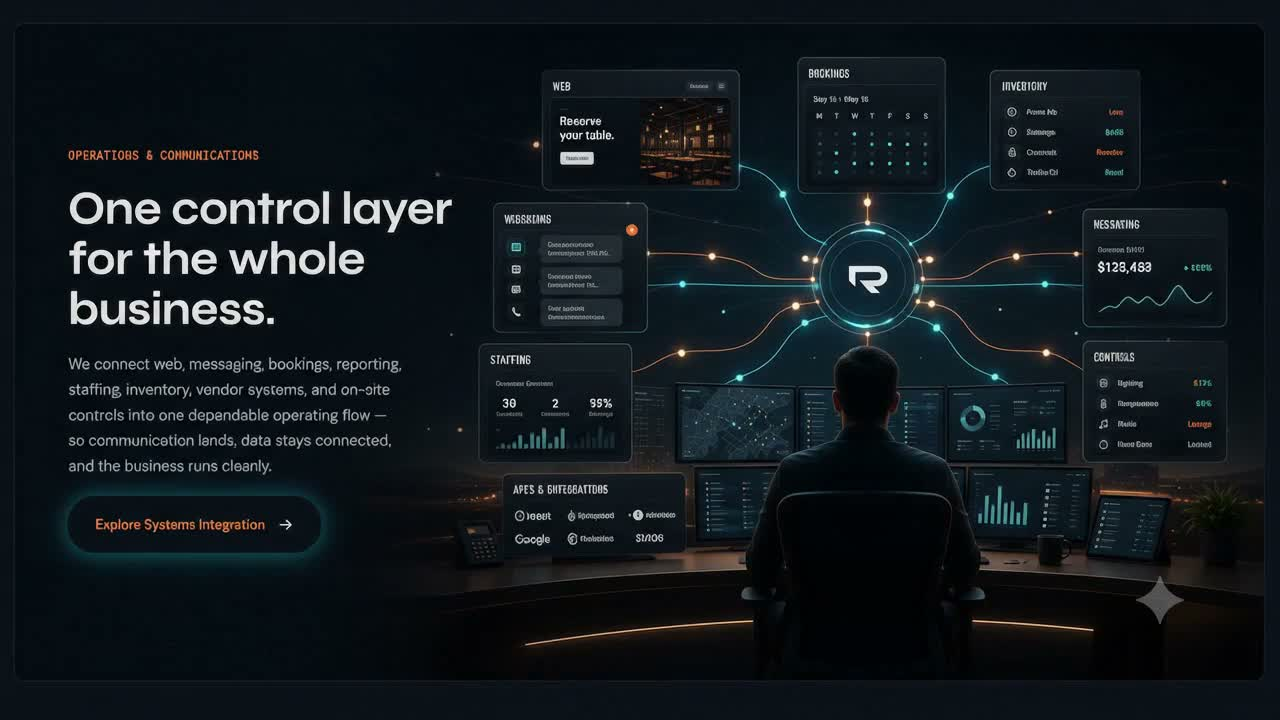
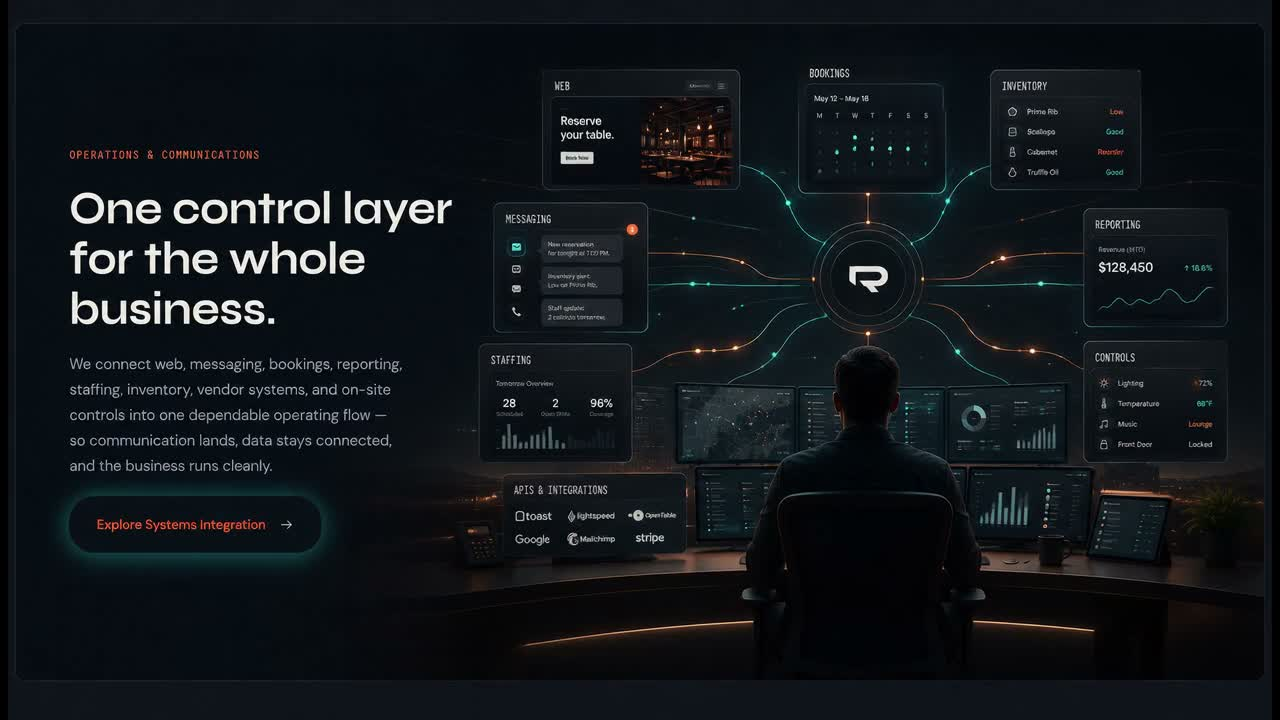
Boomerang systems control video with smooth end-caps
Replace the systems still/one-shot clip with a forward+reverse boomerang of the new source and a continuous controller: slow near turnarounds, no pause holds, whole card still links to System Integrations.

diff --git a/assets/js/systems-control-boomerang.js b/assets/js/systems-control-boomerang.js
@@ -1,0 +1,156 @@
+/**
+ * Systems control-layer boomerang
+ * Same family as integrations hero / IHS underconstruction motion:
+ * pre-baked forward+reverse video, continuous play, slow end-caps,
+ * NO pause holds — never stops at either side.
+ */
+(function () {
+  var v = document.querySelector(".systems-control-video");
+  if (!v) return;
+
+  var CRUISE = 0.72;
+  var FLOOR = 0.2; // never fully stop
+  var CAP = 0.9; // seconds of soft end-cap on each side of turnarounds
+  var D = 0;
+  var MID = 0;
+  var ready = false;
+  var lastT = -1;
+
+  v.muted = true;
+  v.defaultMuted = true;
+  v.setAttribute("muted", "");
+  v.setAttribute("playsinline", "");
+  v.setAttribute("webkit-playsinline", "");
+  v.playsInline = true;
+  v.controls = false;
+  v.removeAttribute("controls");
+  v.loop = false;
+
+  function setRate(rate) {
+    var r = Math.max(0.0625, Math.min(2, rate));
+    try {
+      v.playbackRate = r;
+    } catch (e) {
+      try {
+        v.playbackRate = CRUISE;
+      } catch (e2) {}
+    }
+  }
+
+  function play() {
+    try {
+      v.muted = true;
+      var p = v.play();
+      if (p && p.catch) p.catch(function () {});
+    } catch (e) {}
+  }
+
+  /** Distance to nearest turnaround (start, mid reverse point, end). */
+  function distToCap(t) {
+    return Math.min(t, Math.abs(t - MID), Math.max(0, D - t));
+  }
+
+  /** Smooth cruise with soft slow zones — never zero. */
+  function rateAt(t) {
+    if (D <= 0) return CRUISE;
+    var d = distToCap(t);
+    if (d >= CAP) return CRUISE;
+    var u = d / CAP;
+    // smoothstep
+    u = u * u * (3 - 2 * u);
+    return FLOOR + (CRUISE - FLOOR) * u;
+  }
+
+  function wrapIfNeeded(t) {
+    // Seamless cycle: at end of reverse, jump to start without pause
+    if (t >= D - 0.04) {
+      try {
+        v.currentTime = 0.02;
+      } catch (e) {}
+      lastT = 0.02;
+      setRate(rateAt(0.02));
+      play();
+      return true;
+    }
+    return false;
+  }
+
+  function onTick() {
+    if (!ready || D <= 0) return;
+    if (v.paused) play();
+
+    var t = v.currentTime || 0;
+    if (wrapIfNeeded(t)) return;
+
+    setRate(rateAt(t));
+    lastT = t;
+  }
+
+  function onEnded() {
+    // Hard ended — restart smoothly (no hold)
+    try {
+      v.currentTime = 0.02;
+    } catch (e) {}
+    setRate(rateAt(0.02));
+    play();
+  }
+
+  function setup() {
+    if (ready) return;
+    D = v.duration || 0;
+    if (!D || !isFinite(D)) return;
+    MID = D * 0.5;
+    ready = true;
+    v.loop = false;
+    try {
+      if (v.currentTime > 0.15) v.currentTime = 0;
+    } catch (e) {}
+    setRate(rateAt(0));
+    play();
+  }
+
+  v.addEventListener("timeupdate", onTick);
+  v.addEventListener("ended", onEnded);
+  v.addEventListener("seeking", function () {
+    if (ready) setRate(rateAt(v.currentTime || 0));
+  });
+
+  function frame() {
+    onTick();
+    requestAnimationFrame(frame);
+  }
+  requestAnimationFrame(frame);
+
+  if (v.readyState >= 1) setup();
+  else v.addEventListener("loadedmetadata", setup);
+
+  v.addEventListener("loadeddata", play);
+  v.addEventListener("canplay", function () {
+    v.classList.add("ready");
+    if (!ready) setup();
+    play();
+  });
+  v.addEventListener("canplaythrough", play, { once: true });
+
+  document.addEventListener("visibilitychange", function () {
+    if (!document.hidden) play();
+  });
+  window.addEventListener("pageshow", play);
+
+  var unlock = function () {
+    play();
+    if (!ready && v.readyState >= 1) setup();
+    document.removeEventListener("touchstart", unlock, true);
+    document.removeEventListener("scroll", unlock, true);
+    document.removeEventListener("click", unlock, true);
+  };
+  document.addEventListener("touchstart", unlock, { capture: true, passive: true });
+  document.addEventListener("scroll", unlock, { capture: true, passive: true });
+  document.addEventListener("click", unlock, { capture: true, passive: true });
+
+  setTimeout(play, 400);
+  setTimeout(function () {
+    play();
+    if (!ready && v.readyState >= 1) setup();
+  }, 1200);
+})();

diff --git a/index.html b/index.html
@@ -463,18 +463,18 @@
         aria-label="Explore Systems Integration"
       >
         <video
+          id="systems-control-video"
           class="systems-control-video"
           autoplay
           muted
-          loop
           playsinline
-          preload="metadata"
+          preload="auto"
           poster="assets/img/systems-control-layer-poster.jpg"
           width="1280"
           height="720"
           aria-hidden="true"
         >
-          <source src="assets/video/systems-control-layer.mp4" type="video/mp4">
+          <source src="assets/video/systems-control-layer.mp4?v=20260716-boom1" type="video/mp4">
         </video>
       </a>
     </div>
@@ -796,6 +796,7 @@
   </script>
 <script src="assets/js/robot-chat.js?v=RC5" defer></script>
   <script src="assets/js/hero-cap-flip.js?v=20260711-capflip2" defer></script>
+  <script src="assets/js/systems-control-boomerang.js?v=20260716-boom1" defer></script>
   <script>
     (function () {
       function track(name, params) {